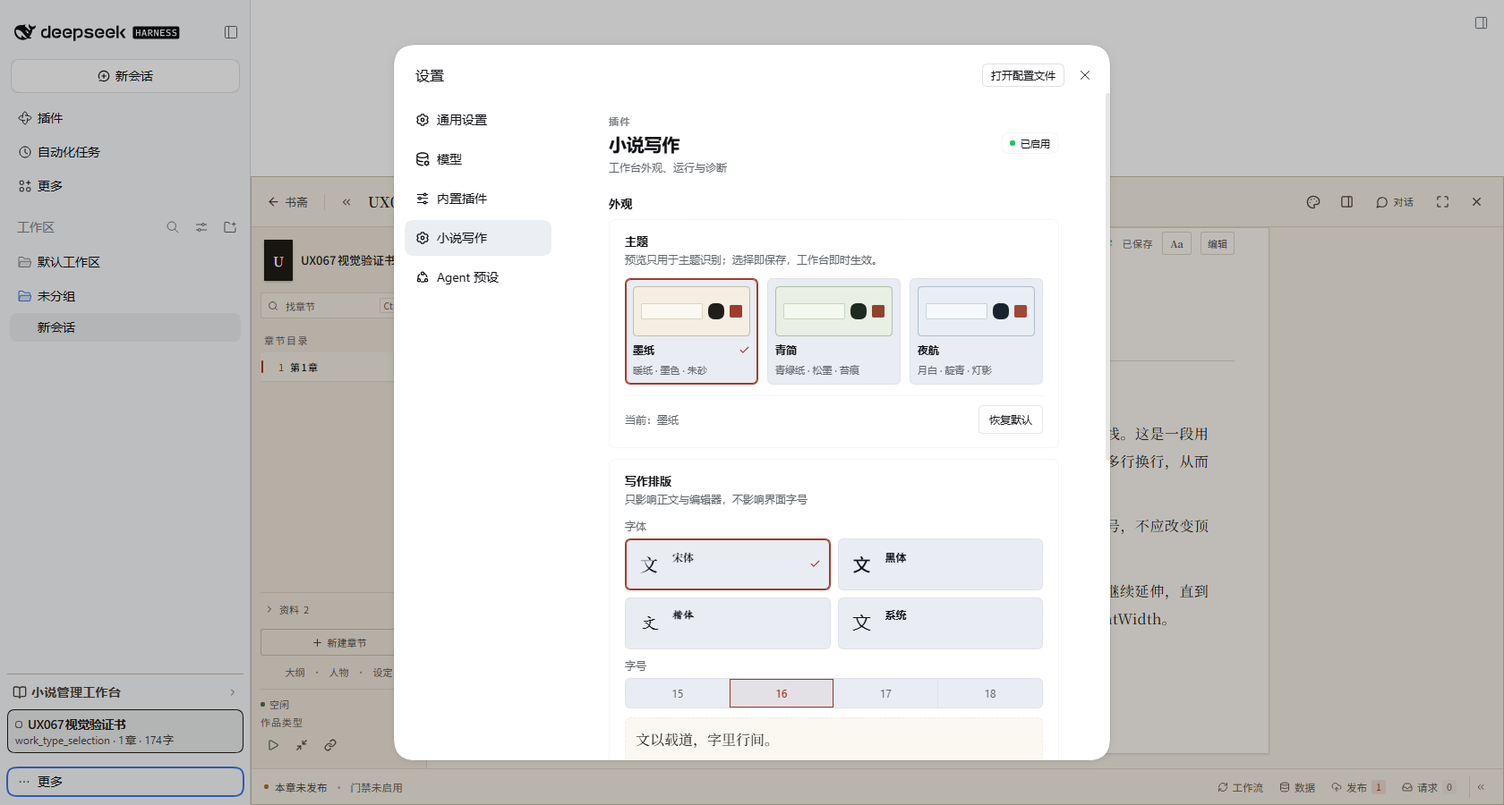
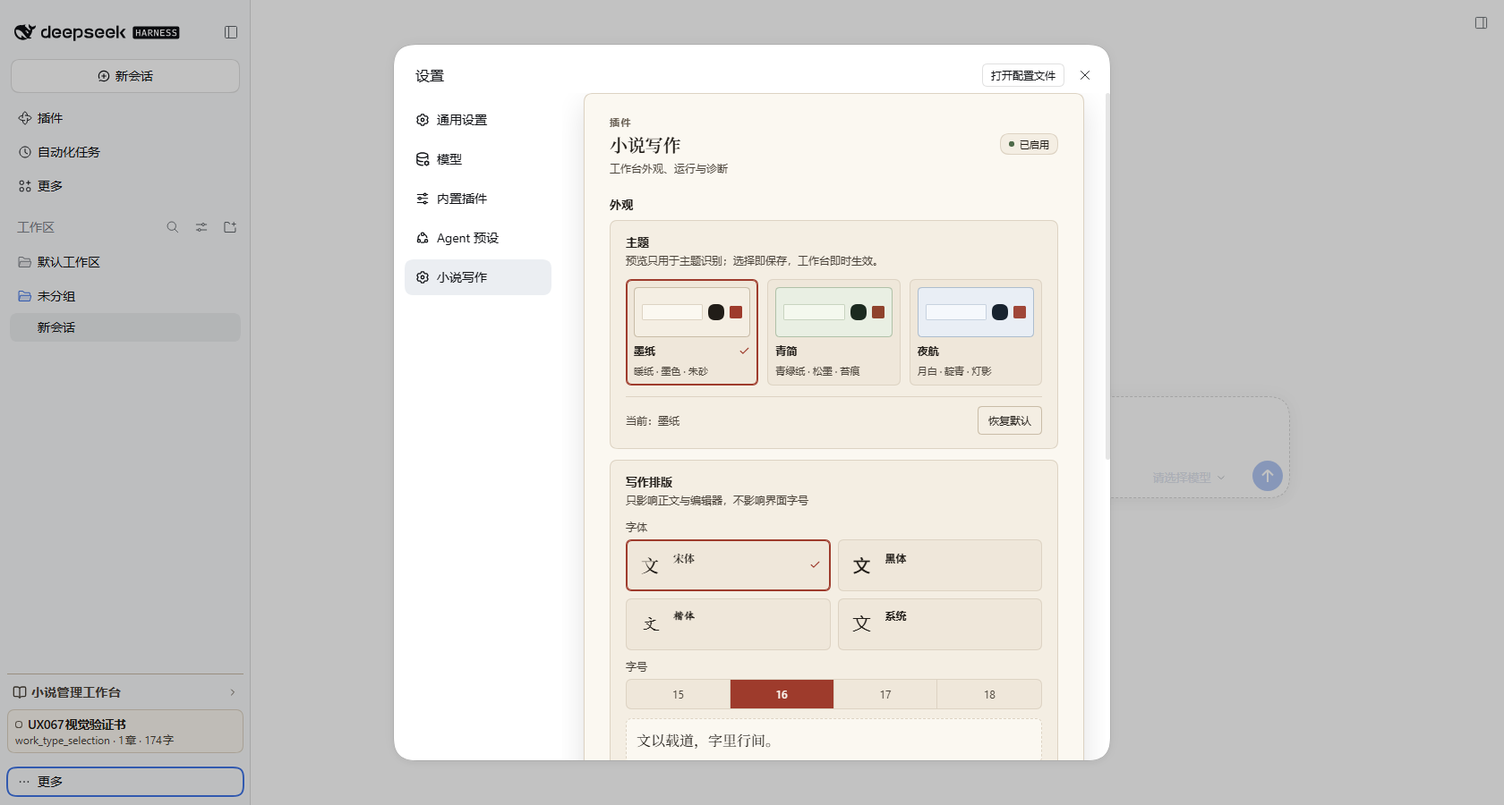
UX-067 R4: 设置页改为墨纸暖面

diff --git a/lib/client.js b/lib/client.js
@@ -7248,15 +7248,15 @@ window.__ModuleLoader__.load({
       '.nv-typo-settings-foot{display:flex;align-items:center;justify-content:space-between;gap:8px;margin-top:10px;font-size:var(--nv-fs-caption);color:var(--nv-ink-3)}',
       '.nv-typo-settings-cur{font-variant-numeric:tabular-nums}',
       '@media (max-width:760px){.nv-typo-settings-fonts{grid-template-columns:1fr}}',
-      // ── UX-067：宿主设置对话框内的中性设置页（只消费宿主 --dsw-alias-*；主题/字体预览样本
-      //    才使用 --nv-* 暖纸色）。页面不设固定高度/嵌套滚动，交给宿主对话框自然滚动。
-      '.nv-settings{--nvs-bg:var(--dsw-alias-bg-base,var(--nv-bg));--nvs-card:var(--dsw-alias-bg-layer-1,var(--nv-surface));--nvs-card-2:var(--dsw-alias-bg-overlay,var(--nv-surface-raised));--nvs-hover:var(--dsw-alias-interactive-bg-hover,var(--nv-surface-hover));--nvs-fg:var(--dsw-alias-label-primary,var(--nv-fg));--nvs-fg-2:var(--dsw-alias-label-secondary,var(--nv-fg-muted));--nvs-fg-3:var(--dsw-alias-label-tertiary,var(--nv-fg-subtle));--nvs-border:var(--dsw-alias-border-l1,var(--nv-border));--nvs-border-2:var(--dsw-alias-border-l2,var(--nv-border-strong));--nvs-accent:var(--dsw-alias-brand-primary,var(--nv-accent));--nvs-on-accent:var(--dsw-alias-label-primary-foreground,var(--nv-on-accent));--nvs-ok:var(--dsw-alias-state-success-primary,var(--nv-ok));--nvs-warn:var(--dsw-alias-state-warn-primary,var(--nv-warn));--nvs-err:var(--dsw-alias-state-error-primary,var(--nv-err));box-sizing:border-box;max-width:760px;margin:0 auto;padding:24px 28px 28px;background:var(--nvs-bg);color:var(--nvs-fg);font-size:var(--nv-fs-ui)}',
+      // ── UX-067 R4：设置页改为与稿件一致的墨纸暖面（页面 paper-2 / 卡片 paper / 次卡纸-3 /
+      //    墨色文本 / rule 边框 / 朱砂强调）；宿主对话框外壳与滚动不动，白底仅作页面外「桌面」。
+      '.nv-settings{--nvs-bg:var(--nv-paper-2);--nvs-card:var(--nv-paper);--nvs-card-2:var(--nv-paper-3);--nvs-hover:color-mix(in srgb,var(--nv-ink) 5%,transparent);--nvs-fg:var(--nv-ink);--nvs-fg-2:var(--nv-ink-2);--nvs-fg-3:var(--nv-ink-3);--nvs-border:var(--nv-rule);--nvs-border-2:var(--nv-rule-strong);--nvs-accent:var(--nv-cinnabar);--nvs-on-accent:var(--nv-paper-2);--nvs-ok:var(--nv-home-ok);--nvs-warn:var(--nv-home-warn);--nvs-err:var(--nv-danger);box-sizing:border-box;max-width:760px;margin:0 auto;padding:24px 28px 28px;background:var(--nv-paper-2);border:1px solid var(--nv-rule);border-radius:12px;box-shadow:0 1px 2px color-mix(in srgb,#000 6%,transparent),0 12px 32px color-mix(in srgb,#000 12%,transparent);color:var(--nvs-fg);font-size:var(--nv-fs-ui)}',
       '.nv-settings *,.nv-settings *::before,.nv-settings *::after{box-sizing:border-box}',
       '.nv-set-head{margin:0 0 22px}',
       '.nv-set-eyebrow{font-size:var(--nv-fs-caption);font-weight:600;letter-spacing:.14em;color:var(--nvs-fg-3);margin:0 0 5px}',
       '.nv-set-head-main{display:flex;align-items:flex-start;justify-content:space-between;gap:16px}',
       '.nv-set-head-text{min-width:0}',
-      '.nv-set-title{margin:0;font-size:var(--nv-fs-display);line-height:1.3;font-weight:600;letter-spacing:-.01em;color:var(--nvs-fg)}',
+      '.nv-set-title{margin:0;font-family:var(--nv-serif);font-size:var(--nv-fs-display);line-height:1.3;font-weight:600;letter-spacing:-.01em;color:var(--nvs-fg)}',
       '.nv-set-sub{margin:4px 0 0;font-size:var(--nv-fs-base);line-height:1.6;color:var(--nvs-fg-2)}',
       '.nv-set-pill{flex:none;display:inline-flex;align-items:center;gap:6px;height:24px;padding:0 9px;border:1px solid var(--nvs-border);border-radius:var(--nv-r-pill,999px);background:var(--nvs-card);color:var(--nvs-fg-2);font-size:var(--nv-fs-caption);font-weight:500;white-space:nowrap}',
       '.nv-set-pill::before{content:"";width:6px;height:6px;border-radius:50%;background:var(--nvs-fg-3)}',
@@ -7312,7 +7312,7 @@ window.__ModuleLoader__.load({
       '.nv-set-control{flex:none;display:flex;align-items:center;gap:7px}',
       '.nv-set-input{width:104px;height:32px;padding:0 9px;border:1px solid var(--nvs-border);border-radius:var(--nv-r-sm,6px);background:var(--nvs-card-2);color:var(--nvs-fg);font:inherit;font-size:var(--nv-fs-base);font-variant-numeric:tabular-nums}',
       '.nv-set-input:focus{outline:none;border-color:var(--nvs-accent);box-shadow:0 0 0 3px color-mix(in srgb,var(--nvs-accent) 22%,transparent)}',
-      '.nv-set-unit{font-size:var(--nv-fs-base);color:var(--nvs-fg-3)}',
+      '.nv-set-unit{font-size:var(--nv-fs-base);color:var(--nvs-fg-2)}',
       '.nv-set-warn{margin:0 16px 13px;padding:8px 10px;border:1px solid color-mix(in srgb,var(--nvs-warn) 38%,transparent);border-radius:var(--nv-r-sm,6px);background:color-mix(in srgb,var(--nvs-warn) 10%,transparent);color:var(--nvs-fg);font-size:var(--nv-fs-base);line-height:1.6}',
       '.nv-set-notice{margin:0 0 14px;padding:8px 11px;border:1px solid color-mix(in srgb,var(--nvs-ok) 36%,transparent);border-radius:var(--nv-r-sm,6px);background:color-mix(in srgb,var(--nvs-ok) 9%,transparent);color:var(--nvs-fg);font-size:var(--nv-fs-base);line-height:1.5}',
       '.nv-set-details{border:1px solid var(--nvs-border);border-radius:var(--nv-r-lg,10px);background:var(--nvs-card);overflow:hidden}',
@@ -7321,7 +7321,7 @@ window.__ModuleLoader__.load({
       '.nv-set-summary::before{content:"+";flex:none;display:inline-flex;align-items:center;justify-content:center;width:18px;height:18px;margin-right:-4px;border:1px solid var(--nvs-border);border-radius:4px;color:var(--nvs-fg-2);font-weight:400;font-size:var(--nv-fs-ui)}',
       '.nv-set-details[open] .nv-set-summary::before{content:"−"}',
       '.nv-set-summary > span:first-of-type{margin-right:auto}',
-      '.nv-set-summary-meta{font-size:var(--nv-fs-caption);font-weight:400;color:var(--nvs-fg-3)}',
+      '.nv-set-summary-meta{font-size:var(--nv-fs-caption);font-weight:400;color:var(--nvs-fg-2)}',
       '.nv-set-details-body{padding:0 16px 14px;border-top:1px solid var(--nvs-border)}',
       '.nv-set-info{display:flex;flex-direction:column;gap:3px;padding:12px 16px;border:1px solid var(--nvs-border);border-radius:var(--nv-r-lg,10px);background:var(--nvs-card)}',
       '.nv-set-info-title{font-size:var(--nv-fs-ui);font-weight:500;color:var(--nvs-fg)}',

diff --git a/docs/review/UX-067-R4.md b/docs/review/UX-067-R4.md
@@ -1,0 +1,186 @@
+# UX-067 R4 视觉增量独立审查（设置页墨纸暖面）
+
+- 审查角色：独立 Reviewer（只读产品/测试/设计/`.governance/**`；仅写本文件；未 commit；未接触用户）
+- 审查锁：`ux067-review-r4`（唯一可写目标 = `docs/review/UX-067-R4.md`；`.governance/agent-locks.json` 已核对，`file_locks` 仅本文件）
+- 审查对象：R4 增量（设置页由宿主中性面改为插件墨纸暖面），不是 UX-067 全量重审。基线 = [UX-067-R3.md](UX-067-R3.md)（AWN/0；P2-5b、P2-1/P2-2 待处理）；开发报告 = [.scratch-ux067/UX-067-R4-dev-report.md](../../.scratch-ux067/UX-067-R4-dev-report.md)
+- 日期：2026-11-09
+- 结论：**APPROVED_WITH_NOTES**；`unresolved_blockers = 0`（P0=0、P1=0）。R4 改动面、纸面令牌、对比度、结构一致性均成立，门禁全绿；用户「与稿件纸面一致」的核心观感在真实宿主截图中成立。**不得标记 UX-067 完成**：P2-1（用户白色/抽屉）仍待用户目检，P2-2（抽屉顶部空白）未触及；本轮新增 P3 记录（证据标签、机检覆盖、计数误差）。
+
+> 核心判断：R4 把设置页 `.nv-settings` 的全部 `--nvs-*` 语义令牌从宿主 `--dsw-alias-*` 改为插件 `--nv-*` 墨纸令牌，并给插件页面加了 `paper-2` 暖底、`rule` 1px 边框、12px 圆角与软纸影；标题改衬线。真实宿主 1680/1152/800 × 浅/深截图显示：**纸面在宿主设置对话框内，宿主白/暗外壳只作为页面外「桌面」**，与稿件纸面（同一套 `--nv-paper*` / `--nv-ink*` / `--nv-cinnabar`）一致。独立复算的文字对比度最低为 **13.51 / 8.64 / 4.92 / 7.40 / 5.41**（正文 / 次级 / 三级 / helper / 朱砂选中），均 ≥4.5；R3 的 **P2-5b「选中面边界」在 R4 换面后已不再复现**（选中朱砂对相邻未选中 `paper-3` 的渲染像素对比 4.87–6.67，≥3），但该边界仍无机检断言。没有发现 P0/P1；主要问题集中在「P2-5b 关闭未入机检 / 探针标签仍写『宿主中性面』/ 开发报告个别数值与计数不精确」这类 P3。
+
+## 1. R4 增量隔离（只改预期文件）
+
+- 本轮隔离比 R3 更强：`HEAD = 14f65fe` 已包含 R3（`git show HEAD:lib/client.js` 含 R3 选中规则、不含 R4 纸面令牌），因此 `git diff HEAD` 就是 **R4 字节级增量**，不再依赖 mtime 推断。
+- `git diff HEAD --stat`：
+
+| 文件 | R4 改动 | 行数/计数 |
+| --- | --- | --- |
+| [lib/client.js](../../lib/client.js) | 仅 `.nv-settings` 令牌块 + 标题衬线 + `.nv-set-unit`/`.nv-set-summary-meta` 颜色 + R4 注释（6 行值替换） | **8178 行不变** |
+| [test/smoke.mjs](../../test/smoke.mjs) | 既有 UX-067 CSS 守卫改写为纸面/插件令牌正断言 + `--dsw-alias-*` 反向断言（合并入既有 check） | 断言计数 **366 不变** |
+| [scripts/verify-visual-geometry.mjs](../../scripts/verify-visual-geometry.mjs) | `u67SettingsNeutral → u67SettingsPaper`（新增 paper/ink/rule 断言）与两处注释 | 其它 geometry 断言零改 |
+| [CHANGELOG.md](../../CHANGELOG.md) | R4「修复」条目（置顶于修复段） | 1 条 |
+| `.governance/governance-store-ops.json` | 锁 `locks-amend` / `locks-release` 记录（治理流水，非产品改动） | 父会话锁管线产生 |
+
+- `git diff HEAD -- lib/client.js` 的 6 组 `-/+` 全部落在 L7253–L7324 的设置页 CSS：无抽屉、无 Aa popover、无 JS 逻辑、无 store/API/localStorage 键、无 DOM 结构、无布局盒模型、无 token 作用域变更。
+- 设置页 CSS 区段（L7253–L7340）独立扫描：`--dsw-alias-` 出现 **0**、`--dsw-specific` **0**；页面 `background:var(--nv-paper-2)` 2 处（令牌 + 外观）。
+- 结构零改：`test/smoke.mjs` 的「真实渲染树」断言仍通过——四段顺序 `appearance/run/diagnostics/where`、主题 3 卡、字体 4 卡（各「文」样本 + 字体栈）、字号 4、运行行 4（enabled/poll/presetAutoSync/apiPublic）、诊断 details 默认折叠 1、info 1、状态 pill「已启用」；真实截图底部可见「业务配置位置」。
+- 工作树无 R3 余留的未提交产品改动；`git diff --check` 0（仅 CRLF 提示）。未发现夹带修改。
+
+## 2. 纸面令牌与外观（surface / warm / serif）
+
+### 2.1 实际 CSS（[lib/client.js L7253](../../lib/client.js#L7253)）
+
+`--nvs-bg:paper-2`、`--nvs-card:paper`、`--nvs-card-2:paper-3`、`--nvs-hover:color-mix(ink 5%,transparent)`、`--nvs-fg:ink`、`--nvs-fg-2:ink-2`、`--nvs-fg-3:ink-3`、`--nvs-border:rule`、`--nvs-border-2:rule-strong`、`--nvs-accent:cinnabar`、`--nvs-on-accent:paper-2`、`--nvs-ok/warn/err:home-ok/home-warn/danger`；页面外观 `background:var(--nv-paper-2);border:1px solid var(--nv-rule);border-radius:12px` + 双层 `color-mix(#000 …)` 软影；`max-width:760px;margin:0 auto;padding:24px 28px 28px` 未动；无固定高度/无 `overflow`。
+
+- 标题 [L7259](../../lib/client.js#L7259) 增 `font-family:var(--nv-serif)`；section 标题、标签、helper、按钮仍 sans/`font:inherit`。真实截图中「小说写作」为宋体衬线、其余 UI 为 sans，符合「标题衬线、控件不衬线化」。
+- `.nv-set-unit` [L7315](../../lib/client.js#L7315) 与 `.nv-set-summary-meta` [L7324](../../lib/client.js#L7324) 由 `fg-3` 改 `fg-2`；与「ink-3 在夜航浅色纸最低 4.49，不足以稳过 4.5」的动机一致。
+- 主题令牌实值见 [L7532–L7549](../../lib/client.js#L7532)：墨纸浅 `paper-2 #FBF8F1 / paper #F4EEE3 / ink #211D18 / cinnabar #9E3B2C`，暗 `#1D1A16 / #151310 / #EDE6D8 / #D07864`；青简、夜航同名令牌各自成套。根级 `--nv-paper*`/`--nv-serif` 回退在 [L6420](../../lib/client.js#L6420)，设置页不依赖 `data-nv-theme` 才成立。
+- 真实截图像素取样（原图、非预览）：
+  - 1680 墨纸浅：页面 `rgb(251,248,241)=#FBF8F1`、卡面 `rgb(244,238,227)=#F4EEE3`、选中字号 `rgb(158,59,44)=#9E3B2C`、宿主外壳 `rgb(255,255,255)`；
+  - 1680 墨纸深：页面 `rgb(29,26,22)=#1D1A16`、卡面 `rgb(21,19,16)=#151310`、选中 `rgb(208,120,100)=#D07864`、宿主外壳 `rgb(44,44,46)`。
+  - 结论：浅色为暖纸、深色为暖黑纸；宿主白/暗外壳与插件纸面是两套明确不同的面，符合「白底仅在页面外」的叙事。
+
+### 2.2 无宿主中性灰残留
+
+- 设置页区段内 `--dsw-alias-*` 为 0；页面/卡/次卡/文本/边框/强调全部插件令牌。
+- 截图视觉：设置对话框左侧宿主导航仍为宿主中性面（宿主 shell，非插件页），插件纸面自身无灰色表单面；浅色下页面+卡面全部暖纸，深色下全部暖暗纸。
+- 唯一注意：`--nvs-bg` 定义后已无消费者（页面直接 `background:var(--nv-paper-2)`），属于冗余 indirection（P3-16），不产生视觉错误。
+
+## 3. 对比度（独立 WCAG 2.x 复算，不采信开发报告数值）
+
+按三主题 × 浅/暗实令牌值独立复算（相对亮度公式；取六组合最低/最高）：
+
+| 组合 | 最低 | 最高 | 门槛 | 结论 |
+| --- | ---: | ---: | ---: | --- |
+| 正文 `ink` / 页面 `paper-2` | **13.51**（青简暗） | 15.79 | 4.5 | 通过 |
+| 次级 `ink-2` / 页面 `paper-2` | 8.64 | 10.13 | 4.5 | 通过 |
+| 三级/eyebrow `ink-3` / 页面 `paper-2` | 4.92（夜航浅） | 6.53 | 4.5 | 通过 |
+| 卡面 `ink` / 卡 `paper` | 12.79 | 15.43 | 4.5 | 通过 |
+| helper `ink-2` / 次卡 `paper-3` | 7.40 | 11.48 | 4.5 | 通过 |
+| 选中/开关文字 `paper-2` / `cinnabar` | **5.41**（墨纸暗） | 6.48 | 4.5 | 通过 |
+| 状态 err / ok 文本对页面 | 5.36 / 5.52 | 6.18 / 7.07 | 4.5 | 通过 |
+| hover 后 `ink-2` / hover 面 | 6.74 | 10.45 | 4.5 | 通过 |
+| `rule` / 页面 `paper-2`（装饰边框） | **1.24** | 1.44 | 3.0 | 不作为组件边界声明 |
+| `rule-strong` / 卡面 `paper`（装饰/滑轨边） | **1.62** | 2.00 | 3.0 | 同上，见 §3.2 |
+
+- 任务给出的验收值（正文 13.9+ / fg2 8.6+ / fg3 4.92+ / helper 7.4+ / 朱砂 5.41+）中，**fg2/fg3/helper/朱砂四项一致**；正文最低实为 **13.51（青简暗）**，开发报告写的「13.92」是青简浅，漏了青简暗这一档（P3-11）。13.51 仍远高于 4.5，不影响通过结论。
+- `--nvs-warn` 只用于警示条边框/底色（文本仍是 `--nvs-fg`），`--nvs-ok` 只用于状态点/提示条底；`--nvs-err` 在设置页无消费者（R4 前也无，非本轮引入）。
+
+### 3.1 R3 P2-5b 残余（选中面/非文本边界）本轮重判
+
+R3 的失败数值是「选中朱砂实底 vs 宿主 `--dsw-alias-bg-overlay`（暗 `#61666B`）1.81–2.04」；R4 后**相邻未选中面不再是宿主 overlay，而是插件 `paper-3`**（`.nv-typo-settings-sizes` 的 `--nvs-card-2`）。审查者对 **六张真实截图逐像素取样**（选中 16 与相邻未选中 15/18 的渲染底色）并复算：
+
+| 组合 | 相邻未选中面（像素） | 选中实底（像素） | 对比度 | ≥3:1 |
+| --- | --- | --- | ---: | --- |
+| 墨纸浅 | `rgb(239,231,218)` | `rgb(158,59,44)` | **5.49** | 是 |
+| 青简浅 | `rgb(224,232,216)` | `rgb(143,67,45)` | **5.55** | 是 |
+| 夜航浅 | `rgb(223,231,240)` | `rgb(160,71,57)` | **4.87** | 是 |
+| 墨纸暗 | `rgb(18,16,13)` | `rgb(208,120,100)` | **5.93** | 是 |
+| 青简暗 | `rgb(13,18,15)` | `rgb(208,135,111)` | **6.64** | 是 |
+| 夜航暗 | `rgb(10,15,21)` | `rgb(212,131,112)` | **6.67** | 是 |
+
+- 这是渲染后的**相邻色实测**，不是令牌名假设。原先的 1.81–2.04 失败前提已随换面消失；1px inset 环仍与实底同色，但实底填充自身对相邻面已 ≥4.87，按 WCAG 1.4.11「flat design 状态色填满组件、对相邻色 ≥3」的要求已满足。
+- 选中环对卡面（主题卡/字体卡）：`cinnabar` vs `paper` 5.21–6.41；开关开态 `cinnabar` track vs `paper-3` ≥4.87、拇指 `paper-2` vs `cinnabar` ≥5.41。均 ≥3。
+- **结论：P2-5b 的数值失败不再复现，按本次实测可视为实质闭合**；但它仍未进入 smoke/geometry/探针的机检（P3-13），且「关闭」不是 R4 的设计目标而是换面副作用，建议补断言防回归。
+
+### 3.2 其他非文本边界（未宣称 AA）
+
+- 页面 1px `rule` 边框对页面/宿主外壳约 1.24–1.44；卡面与页面仅 1.16–1.17 的色阶差；这些是装饰性分界，页面还有软影，不按组件边界宣称 3:1。
+- 关闭态 switch 轨道边框 `rule-strong` 对卡面 1.62–2.00，但识别控件/状态的拇指 `ink-3` 对 `paper-3` 为 4.20（≥3），截图中开关可辨识。若后续把 WCAG 1.4.11 扩展到所有控件外轮廓，需要单独审计（P3-17），本轮不阻断。
+
+## 4. 几何与门禁守卫
+
+### 4.1 `u67SettingsPaper` 与实际 CSS 一致
+
+[scripts/verify-visual-geometry.mjs L860–L865](../../scripts/verify-visual-geometry.mjs#L860) 的新守卫 = 首条 `.nv-settings{…}` 含 `max-width:760px` / `padding:24px 28px 28px` / `--nvs-card:var(--nv-paper)` / `--nvs-fg:var(--nv-ink)` / `border:1px solid var(--nv-rule)` / `.nv-set-switch[data-on=true]` / 无旧 inline `padding:'16px'`；实际源码逐项命中。审查者做了**内存负向测试**（不改仓库文件）：把 card 改回 host、删 border、把 fg 改回 host 三种变体均使该守卫为 false，实际代码为 true。守卫不是恒真。
+
+- 几何脚本中旧名 `u67SettingsNeutral` 已无残留；`中性` 相关断言为 0。旧注释「设置页只以宿主 token 铺中性面」已改为「插件墨纸令牌铺暖纸面」。
+- **但**：探针 [.scratch-ux067/probe-ux067.mjs L742](../../.scratch-ux067/probe-ux067.mjs#L742) 的 S2 断言标签仍写「设置页三主题浅/深 + 1680/1152/800 **均落在宿主中性面**」，且 S2 实际只断言 `found/width/overflow/themeAttr/scroll`，未采集设置页的 computed background/foreground。该标签在 R4 后是误导性陈述（P3-12）；纸面证据来自截图与审查者像素取样，不是该断言。
+
+### 4.2 S2 几何未变
+
+`node scripts/verify-visual-geometry.mjs --strict` 独立实跑：1680/1440/1152/1086/956/800 稿纸 **680/680/654/588/606/450**、专注 **680/680/680/680/654/498**、抽屉 side/overlay 与稿纸 680/680/654/588/606/450、横向溢出 **0**；与 R3 报告记录逐值一致。R4 未触碰布局，几何零漂移。
+
+### 4.3 门禁（审查者独立实跑，2026-11-09）
+
+| Gate | 命令 | exit | 结果 |
+| --- | --- | ---: | --- |
+| G1 | `node --check lib/client.js` | 0 | 无输出 |
+| G1 | `node --check test/smoke.mjs` | 0 | 无输出 |
+| G1 | `node --check scripts/verify-visual-geometry.mjs` | 0 | 无输出 |
+| G2 | `node test/smoke.mjs` | 0 | **366 passed, 0 failed**；R4 纸面守卫 ok；`--dsw-alias-` 反向断言 ok |
+| G2b | `node test/validate-preset.mjs` | 0 | `PRESET VALIDATION PASSED（schema-face: PASS）` |
+| G3 | `node scripts/verify-visual-geometry.mjs --strict` | 0 | **OK**；S2 六档与 R3 一致；`u67SettingsPaper` true；横向溢出 0 |
+| G4 | `node scripts/verify-contract-anchors.mjs` | 0 | **共 78 段；FAIL = 0；WARN = 19**；`lib/client.js` 8178 行不变 |
+| G5 | `git diff --check` | 0 | 无空白错误（仅 CRLF 提示） |
+
+## 5. 真实宿主视觉证据（`.scratch-ux067/r4-evidence/`）
+
+- 目录实有 **22 张 PNG** + `ux067-report.json`（2026-11-09 13:53–13:55）；开发报告/CHANGELOG 写「21 张」，少计 1（P3-15）。
+- 审查者目检的关键图：
+  - `ux067-04-settings-1680-mozhi-light.png`：纸面在宿主设置对话框内，暖纸页面 + 纸卡，左侧宿主白色外壳在纸外；标题「小说写作」宋体；主题卡选中朱砂环；字号 16 朱砂实底 + 纸色字；字体 4 卡齐全。
+  - `ux067-10-settings-1680-mozhi-dark.png`：暖黑纸页面/卡，宿主暗壳在外；标题衬线；选中朱砂；可滚动（右侧滚动条）。
+  - `ux067-05-settings-1152-mozhi-light.png`、`ux067-06-settings-800-mozhi-light.png`、`ux067-12-settings-800-mozhi-dark.png`：800 下纸面宽 511、右缘在宿主内容区内，无裁切/横向溢出；四段、字体卡、字号、状态 pill 均在。
+  - `ux067-09-settings-1680-bottom-light.png`：宿主对话框滚动到底，运行段 4 行、诊断 details（关闭）、业务配置位置可达；底 padding 28。
+  - 三主题浅/深 `07/08/13/14`：纸面颜色随主题 `paper*` 成套变化（青简偏绿、夜航偏蓝），与稿件主题一致。
+- 探针数值：S1 `width 559`（1680/1152）、`511`（800）、`overflowX:false`、`paddingBottom:28px`、`height` 为内容高（1333.12/1352.92）、`maxWidth:760px`；宿主滚动容器 `scrollH 1357/1377 / clientH 746` 可滚到底；S1/S2/S2 结构断言全绿。
+- **抽屉证据边界**：`UX067-D4-drawer-theme-matrix` 为 `ok:false`（8 个键均为 `{}`），对应 `ux067-15/16/17/18-drawer-*` 截图是**未开抽屉的宿主页面**（三主题浅色图字节完全相同）；D1–D3 在 R4 真实宿主中仍绿且抽屉 CSS 本轮零改。开发报告已如实披露 D4 `found:false`，不算隐瞒；但抽屉矩阵不能作为 R4 的抽屉可视证据（P3-15）。
+- 探针 `pageerror=0 / React#310=0 / slot crash=0`；`cleanup.realEnvUnchanged=true`（真实 `$DSH_HOME` 零写入）。
+
+## 6. 用户诉求判定（是否已与稿件纸面一致）
+
+**是（视觉上成立）。** 默认墨纸浅色：设置页整页为暖纸 `#FBF8F1`、卡面 `#F4EEE3`、墨色文本、朱砂选中，标题宋体，与稿纸/工作台使用同一套 `--nv-paper*`/`--nv-ink*`/`--nv-cinnabar`，不再呈现宿主灰色表单；宿主对话框白色仅是纸面外的桌面。深色：暖黑纸 `#1D1A16`，与稿件暗色纸一致。800/1680 均无裁切或横向溢出，宿主滚动保留。
+
+- 需如实说明：青简/夜航主题下纸面呈各自主题的绿/蓝纸色，不是恒定的暖米色——这是主题系统的一致性，不是 R4 缺陷；若用户的本意是「无论主题都浅暖米色」，那将是产品决策，需用户确认。
+- 用户对 after 的最终目检仍是完成条件；本轮审查不能代替。
+
+## 7. Findings
+
+### P0
+
+无。
+
+### P1
+
+无。
+
+### P2
+
+- **P2-1（carry-over，R4 未闭合）**：用户「抽屉白色」观感仍未被用户目检确认；R4 不触碰抽屉，D4 抽屉矩阵本轮取证失败（见 §5）。R1 的关闭条件（用户原图/同状态复现或用户目检）仍未满足。不影响 R4 合并。
+- **P2-2（carry-over，未触及）**：抽屉顶部 210px 空白/无标题带仍在；R4 只改设置页。
+
+> **P2-5b 状态更新**：R3 记录的「选中面 vs 宿主 overlay 1.81–2.04」在 R4 后不再复现——相邻面已改为插件 `paper-3`，六组合渲染像素实测 **4.87–6.67:1（≥3）**；1px 同色环仍在但实底填充已满足 1.4.11。**本轮不再把 P2-5b 记为开放 P2**；余留的是「该边界无机检」的 P3-13。
+
+### P3
+
+- **P3-11（报告数值）**：开发报告 §3 正文 `ink/paper-2` 最低写 13.92，实际六组合最低为 **13.51（青简暗）**；13.92 是青简浅。结论仍通过，但最低值应更正，避免后续审计以错误下限复核。
+- **P3-12（证据标签/断言强度）**：探针 S2 标签仍称设置页「均落在宿主中性面」（R4 后错误），且 S2 未断言设置页 computed `background/color` 或纸面令牌；纸面证据仅来自截图/审查者取样。建议把标签改为「插件墨纸暖面」并在 S2 采集设置页 computed background 与选中字号背景/文字，纳入断言。
+- **P3-13（P2-5b 关闭未入机检）**：选中实底对相邻 `paper-3` 的 3:1 边界现在靠换面偶然满足，smoke 仍只机检 `cinnabar vs paper-2` 的**文字**对比度，geometry 只做源码串断言，探针不采集该边界。建议新增三主题 × 明暗「选中实底 vs 相邻未选中面 ≥3」机检（或真实宿主像素/ComputedStyle 断言）。
+- **P3-14（反向断言范围）**：smoke 的 `!setRule.includes('--dsw-alias-')` 只覆盖首条 `.nv-settings{…}` 规则，不覆盖设置段其它规则；实际设置段已扫描为 0，但守卫范围小于 check 名宣称的「零宿主映射」。建议对 R4 注释到设置段结束的切片整体断言。
+- **P3-15（证据卫生）**：r4-evidence 实为 **22 张**截图，开发报告/CHANGELOG 写 21 张；`ux067-15/16/17/18-drawer-*` 是未开抽屉的空白宿主页（D4 found:false），不能当作抽屉矩阵证据；仅 D1–D3 与 01–03 可作抽屉证据。已披露 D4 失败，但计数与图名易误读。
+- **P3-16（冗余令牌）**：`--nvs-bg` 现无消费者（页面直接 `background:var(--nv-paper-2)`），`--nvs-err` 也无消费者（R4 前即无）；不产生视觉问题，但「语义层单源」出现冗余，可在后续清理或让页面消费 `--nvs-bg`。
+- **P3-17（非文本边界未声称）**：装饰性 `rule/paper-2` 1.24–1.44、`rule-strong/paper` 1.62–2.00、关闭态 switch 轨道边 <3；拇指 4.20 仍可识别控件。本轮不宣称这些边界达 AA；若项目把 1.4.11 扩到所有控件外轮廓，需单独审计。
+
+### unresolved_blockers
+
+```text
+0
+```
+
+（P0=0、P1=0。P2-1/P2-2 为 UX-067 整体完成前的 carry-over；P2-5b 数值失败不再复现，仅余 P3-13 机检缺口。）
+
+## 8. 残余 / 未测
+
+- 未跑远端 CI；未 commit；未改产品/测试/设计/`.governance/**`；未接触用户。
+- 未在 Windows 高对比/强制色、宿主其它主题或强制 `color-scheme` 上下文验证；覆盖插件三主题 × 浅/深。
+- 设置页纸面对比度为本报告按令牌实值 + 真实截图像素独立复算；未使用浏览器 computed style 采集，但截图像素与令牌值逐项吻合。
+- P2-1 用户白色/抽屉观感、P2-2 抽屉顶部空白、R4 after 的用户目检，均仍需用户侧确认；本报告不代替用户验收。
+- 探针 D4 的 `found:false` 为既有探针时序问题，非 R4 设置 CSS 引起（D1–D3 同轮绿、抽屉 CSS 零改）；但其截图不能作为抽屉矩阵证据。
+
+## 9. 结论
+
+**APPROVED_WITH_NOTES**；`unresolved_blockers = 0`（P0=0、P1=0）。
+
+R4 是干净、聚焦的设置页视觉增量：字节级 diff 仅 6 行设置 CSS + 守卫/注释/CHANGELOG；`lib/client.js` 8178 行不变；无抽屉/API/数据/布局改动；四段结构、4 字体卡、4 字号、状态/诊断/业务全在。设置页已从宿主中性面切换为与稿件同源的墨纸暖面（页面 `paper-2` / 卡 `paper` / 次卡 `paper-3` / 文本 `ink*` / 边框 `rule*` / 强调 `cinnabar`），标题衬线，浅色暖纸、深色暖黑纸，宿主白/暗外壳只在纸外；1680/1152/800 × 浅/深截图无裁切、无横向溢出，宿主对话框滚动可达底部。文字对比度六组合最低 13.51/8.64/4.92/7.40/5.41，均过 4.5；R3 的 P2-5b 非文本边界在换面后实测 4.87–6.67 ≥3，已不再复现，但没有入机检（P3-13）。
+
+**不得标记 UX-067 完成**：P2-1（用户白色/抽屉）仍待用户目检，P2-2（抽屉顶部空白）未触及，R4 after 本身也待用户目检；P3 记录（13.51 正文下限、探针「宿主中性面」旧标签、22 vs 21 截图、反向断言范围等）建议后续收口。

diff --git a/CHANGELOG.md b/CHANGELOG.md
@@ -65,6 +65,7 @@
 - **宿主契约清单 `lib/host-contract.mjs`（COMPAT-002，DEC-025 ADR 决策①落地地基）**：六面 47 项宿主依赖的**机读声明式契约**——纯数据、零 import 宿主包、零运行时逻辑（JSON 往返无损守卫），供 CI/smoke/诊断三方消费；逐项可溯源至 COMPAT-001 分析 §3（61 处行号抽核 0 失实底稿）：面1 服务端 API 11 / 面2 客户端 API 13 / 面3 宿主 DOM·前端约定 7 / 面4 安装注册 6 / 面5 预设 manifest 5 / 面6 版本环境 5。每条目 schema = `face/item/kind/symbol/file/line/necessity`（+可选 `note/incident`），文件头含一条完整样例逐字段说明；necessity 九值口径机读化（含 F10 统一口径：自有恰 1 项〔3.7 localStorage 键，无宿主耦合〕+ 已消除恰 1 项〔1.4 settingsNamespace，necessity=eliminated 保留在册供 BUG-003 历史勾稽〕；6.4 CI mock 漂移条目注记 COMPAT-010 已修正、对账以 ci.yml 实状为准）。附 `regionLiterals` 首批对账清单（F8）：槽位名 3（settings.section/sidebar.footer.action/shell.overlay）/ 服务名（inject 表 3 + ctx.get 目标 3 + makeHostApi svc 域名 6 + internal/service 事件 1）/ CSS 令牌 `--dsw-alias-*` 去重恰 12 / 宿主耦合 DOM selector 3（.nv- 自有前缀除外）。smoke 新增 11 项断言（**203 → 214**，0 失败）：契约结构（六面分布/编号面内连续/七字段齐全/F10 口径）+ 纯数据守卫 + 三类 region 字面量（槽位名·CSS 令牌·DOM selector）与 `lib/client.js` 源码**双向对账**（提取面 ⊆ 契约 ∧ 契约 ⊆ 提取面）+ 服务名对账（其中**事件名一项当时为单向断言**——删契约项或置空数组仍全绿，属真空方向；该措辞偏差与断言强度缺口已由 COMPAT-003 F3 修订为双向对账）。可靠性演练实证：临时篡改契约槽位字面量 → 对账断言变红（exit=1，失配明细列出 src/contract 差异）→ 恢复 → 全绿。`node --check` ×4（含新文件）0 错；validate-preset 29/29 不劣化。
 
 ### 修复
+- **UX-067 R4（用户 2026-11-09 反馈：设置页像宿主灰色表单、与稿件纸面断层）**：`.nv-settings` 由宿主中性面改为**插件墨纸暖面**——页面 `background:var(--nv-paper-2)`（浅色暖纸 `#FBF8F1` / 深色暖黑纸 `#1D1A16`）、`1px solid var(--nv-rule)` 边框、12px 圆角、双层软纸影；`max-width:760px` / `margin:0 auto` / `padding:24px 28px 28px` 与宿主对话框外壳（含滚动）不变，宿主白/暗底仅作为页面外的「桌面」。`--nvs-*` 语义层全部从宿主 `--dsw-alias-*` 映射改为插件令牌：`bg→paper-2`、`card→paper`、`card-2→paper-3`、`hover→color-mix(ink 5%,transparent)`、`fg→ink`、`fg-2→ink-2`、`fg-3→ink-3`、`border→rule`、`border-2→rule-strong`、`accent→cinnabar`、`on-accent→paper-2`、`ok/warn/err→nv-home-ok/nv-home-warn/nv-danger`；switch 开态随朱砂、选中字号维持朱砂实底 + paper-2 文字，主题/字体预览与四段结构/字体卡零改。页面标题改用 `var(--nv-serif)`，UI 标签仍 sans，控件不衬线化。smoke 既有 UX-067 CSS 守卫改写为上述插件令牌 + 纸面（边框/圆角/软影/标题衬线）正断言并反向断言 `--dsw-alias-*` 零残留，**计数不变 366**。验证：`node --check lib/client.js|test/smoke.mjs|scripts/verify-visual-geometry.mjs` 0；smoke **366/0**；geometry `--strict` **OK**（六档 S2 / 排版 / 抽屉测量与 R3 一致，`u67SettingsNeutral` 守卫同步改为 `u67SettingsPaper` 并断言 paper/ink/rule 纸面）；anchors **78 段 FAIL=0 / WARN=19**（`lib/client.js` 行数保持 8178，anchor 零漂移）。真实宿主探针（官方 CLI + 临时 DSH_HOME + Edge）设置页 S1/S2 结构/三主题明暗/1680·1152·800/宿主对话框滚动全绿，21 张截图见 `.scratch-ux067/r4-evidence/`；同轮抽屉矩阵 D4 为既有探针在关闭设置后取不到抽屉（`found:false`，与本 CSS 改动无关，D1~D3 抽屉断言仍绿），如实披露。
 - **UX-067 R3（REVIEW-UX-067-R2 P2-5 暗色选中字号对比度 1.75:1 闭环）**：设置页「写作排版」选中字号由 R2 的 `color-mix(… 6%,transparent)` 透明软底改为**不透明朱砂实底 + 纸色文字**（`background:var(--nv-cinnabar);color:var(--nv-paper-2);box-shadow:inset 0 0 0 1px var(--nv-cinnabar);font-weight:600`），选中态不再叠在宿主 `--dsw-alias-bg-overlay`（dark `#61666b`）上，从根因上消除「按错令牌层核算」的透明合成依赖。WCAG 对比度实测（三主题 × 明暗，`cinnabar` vs `paper-2`）：墨纸 6.35 / **5.41**、青简 6.48 / 5.79、夜航 5.71 / 5.88；旧值 = 浅色 5.20（通过）/ 暗色 **1.75（不通过）**。与抽屉发送按钮同一「朱砂底 + 纸色字」语言。未选中字号仍为宿主中性面；Aa popover 选中规则、主题卡/字体卡、switch、抽屉输入面零改动；无行为/API/数据结构/布局几何变更。smoke **366/0**（断言计数不变）：UX-067 CSS 守卫增补新值正断言 + 旧 6% 软底/宿主 accent 反向断言，并新增三主题 × 明暗 `cinnabar vs paper-2` 的 WCAG 机检（≥4.5，补 R2 P3-7「按错令牌层无法被现有门禁发现」的缺口）。验证：`node --check` 0；smoke 366/0；preset PASS；geometry `--strict` OK（S2 六档数值不变）；anchors 78 段 FAIL=0/WARN=19。证据：`.scratch-ux067/UX-067-R3-dev-report.md`。
 - **UX-067 R2（R1 P2-3 / P2-4 视觉一致性收口）**：设置页「写作排版」选中字号不再使用宿主 accent 实心块（light `rgb(15,17,21)` / dark `rgb(249,250,251)`），统一为插件朱砂语言——`color-mix(in srgb,var(--nv-cinnabar) 6%,transparent)` 软底 + `var(--nv-cinnabar)` 文字 + 1px inset 朱砂环 + 600 字重，与主题卡/字体卡选中同源；未选中仍为宿主中性面。抽屉 `--dsw-specific-input-major` 由 `var(--nv-paper-2)`（`#FBF8F1` 暖近白）降至 `var(--nv-paper-3)`（`#EFE7DA`），`VIEW_AREA_TOKEN_VALUES` 内联映射与 `[data-phase]` CSS 兜底双处同值，composer/hero 输入面不再近白；`[data-composer-seat]` 的 paper-3 seat 不变。Aa popover 选中态、宿主 switch、API/数据/布局几何零改动。验证：`node --check lib/client.js` 0；smoke **366/0**（断言计数不变，UX-067 两条既有守卫增补新值/旧值反向断言）；geometry `--strict` OK（S2 六档数值不变）；anchors 78 段 FAIL=0/WARN=19。证据：`.scratch-ux067/UX-067-R2-dev-report.md`。
 - **UX-064 S2 R3（REVIEW-UX-064-S2-R2 P1：真实 800/956 窄容器布局失败）**：R2 在真实 800（宿主侧栏展开，`.nv-split`=520）下普通态稿纸仅 330px，开「对话」后 `.nv-main{width:max(280px,calc(100%-420px))}` 把稿纸压到 212px，抽屉左缘 380 / 稿纸右缘 551 → **171px（81%）被覆盖**；956（容器 676）抽屉态同样 212px。修复：

diff --git a/.governance/evidence-log.md b/.governance/evidence-log.md
@@ -585,3 +585,5 @@
 | REVIEW-UX-067-R2 | UX-067 | 治理记录 | review-record CLI 机器写入 review 结论记录（round 2） | 事实依据：review-record 输出摘要（机器写入） | docs/review/UX-067-R2.md; review-UX-067-R2.md; report_sha256=1ab02188cf32; commit=aad6d1251762 | Reviewer | 2026-11-09 | G11 | APPROVED_WITH_NOTES | unresolved_blockers=0 |
 
 | REVIEW-UX-067-R3 | UX-067 | 治理记录 | review-record CLI 机器写入 review 结论记录（round 3） | 事实依据：review-record 输出摘要（机器写入） | docs/review/UX-067-R3.md; review-UX-067-R3.md; report_sha256=05897baf5220; commit=aad6d1251762 | Reviewer | 2026-11-09 | G11 | APPROVED_WITH_NOTES | unresolved_blockers=0 |
+
+| REVIEW-UX-067-R4 | UX-067 | 治理记录 | review-record CLI 机器写入 review 结论记录（round 4） | 事实依据：review-record 输出摘要（机器写入） | docs/review/UX-067-R4.md; review-UX-067-R4.md; report_sha256=c188db2435f3; commit=14f65feeebf3 | Reviewer | 2026-11-09 | G11 | APPROVED_WITH_NOTES | unresolved_blockers=0 |

diff --git a/docs/design/UX-067-settings-drawer/README.md b/docs/design/UX-067-settings-drawer/README.md
@@ -10,7 +10,7 @@
 - 会话抽屉是**宿主原生内容**，不能改业务/伪造消息；插件只做：
   - 宿主会话窗的**纸面作用域**（token 映射 + inline fallback，不依赖单一 `data-nv-theme` 属性）；
   - **抽屉外壳**（纸色侧栏、1px 缝、顶部/底部边界），让宿主内容成为“桌面上的协作侧页”，而不是白色空洞。
-- 设置页位于**宿主设置对话框**，应服从宿主原生设置语言：中性表面、清晰分区、统一控件，不再把暖纸主题卡片直接铺在白框里；主题/字体只作为**预览样本**使用暖纸色。
+- 设置页位于**宿主设置对话框**，但用户确定要与稿纸保持一致：插件内容使用**墨纸暖面**（paper-2 底 + paper 卡 + ink 文本 + 朱砂选中），宿主白色/暗色对话框只作为页面外“桌面”；不再用宿主中性灰表单面。
 - 两者都不改 API/数据/业务，不覆盖宿主 app 顶栏/左栏/对话框外壳。
 
 ## 设置页设计

diff --git a/docs/evidence/UX-067/README.md b/docs/evidence/UX-067/README.md
@@ -7,7 +7,7 @@
 
 - `before-settings-1680-mozhi-light.png`：旧设置页（暖纸卡夹在宿主白框、字体选项只有选中项有边界、顶部密集说明）。
 - `before-drawer-1680-mozhi-light.png`：旧抽屉。**注意：本机 before 已经是暖色 `#FBF8F1`，不是用户截图里的纯白；用户白色未能逐像素复现。**
-- `ux067-04-settings-1680-mozhi-light.png`：新设置页（宿主中性面、状态 pill、外观/运行/诊断/业务配置）。
+- `ux067-04-settings-1680-mozhi-light.png`：最终设置页（**墨纸暖面**、纸卡/衬线标题、状态 pill、外观/运行/诊断/业务配置；宿主设置外壳保留为桌面）。
 - `ux067-06-settings-800-mozhi-light.png`：800 设置页。
 - `ux067-09-settings-1680-bottom-light.png`：底部运行 switch/诊断折叠/业务提示，无截断。
 - `ux067-10-settings-1680-mozhi-dark.png`：暗色设置页。

diff --git a/.governance/review-UX-067-R4.md b/.governance/review-UX-067-R4.md
@@ -1,0 +1,17 @@
+# Review Record (machine-written by review-record)
+
+- task: UX-067
+- round: R4
+- date: 2026-11-09
+- reviewer: Reviewer
+- report: docs/review/UX-067-R4.md
+- wiring: pending
+- scope: delta
+- delta_base: docs/review/UX-067-R3.md
+- report_sha256: c188db2435f38baae40370d4c4b307ac4f6f4ec4a4707f00a2d62bfc80422228
+- snapshot_commit: 14f65feeebf3ddaf941514682b7fd5712b38f5a7
+- snapshot_worktree: dirty(6)
+
+**审查结论**: **APPROVED_WITH_NOTES**
+
+unresolved_blockers=0
